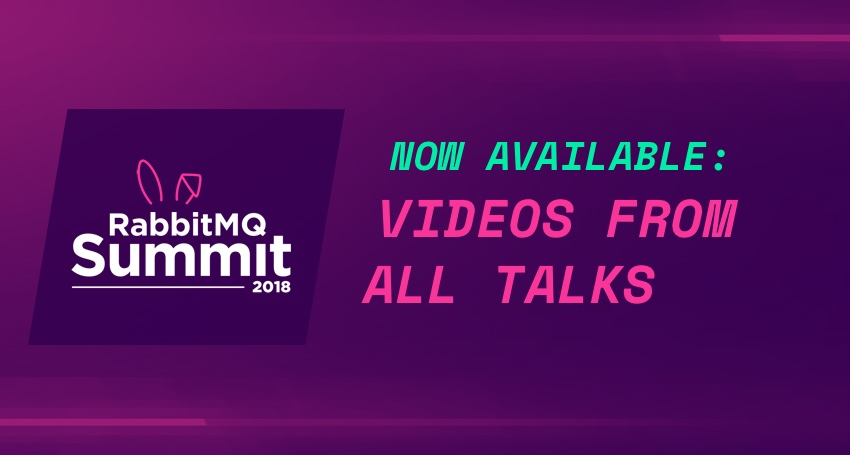
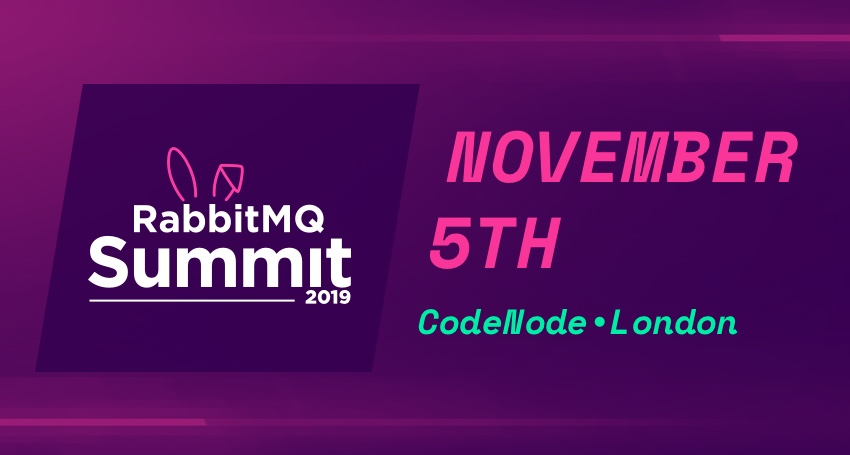
Adding the date

Changed region(s): [[0.0306, 0.1846, 0.9482, 0.8308], [0.7035, 0.4308, 0.8871, 0.5231]]

diff --git a/index.html b/index.html
@@ -39,7 +39,7 @@ image: /img/og-frontpage.jpg
         </div>
         <div class="col-10 col-md-5 col-lg-4 col-xl-5 mb-3 mb-md-0 text-center text-md-left">
           <h2 class="text-uppercase text-primary mb-0">
-            <time datetime="2018-11-12"><span class="editable">November 2019</span></time>
+            <time datetime="2019-11-05"><span class="editable">November 5th</span></time>
           </h2>
         </div>
         <div class="col-11 col-lg-4 col-xl-3 text-center">
@@ -55,7 +55,7 @@ image: /img/og-frontpage.jpg
           <div class="text-sm text-info mb-3">
             <p class="editable mb-0">
               RabbitMQ Summit brings RabbitMQ users and developers together from around the world. Learn from speakers and keynotes on what&rsquo;s happening in and around RabbitMQ, and how top companies utilise RabbitMQ to power their services.
-              We are currently planning the upcoming event for fall 2019.
+              We're happy to announce that RabbitMQ Summit will be back as expected in November 2019. Make sure to subscribe to our newsletter to get the latest news. Subscribe below.
             </p>
           </div>
         </div>
